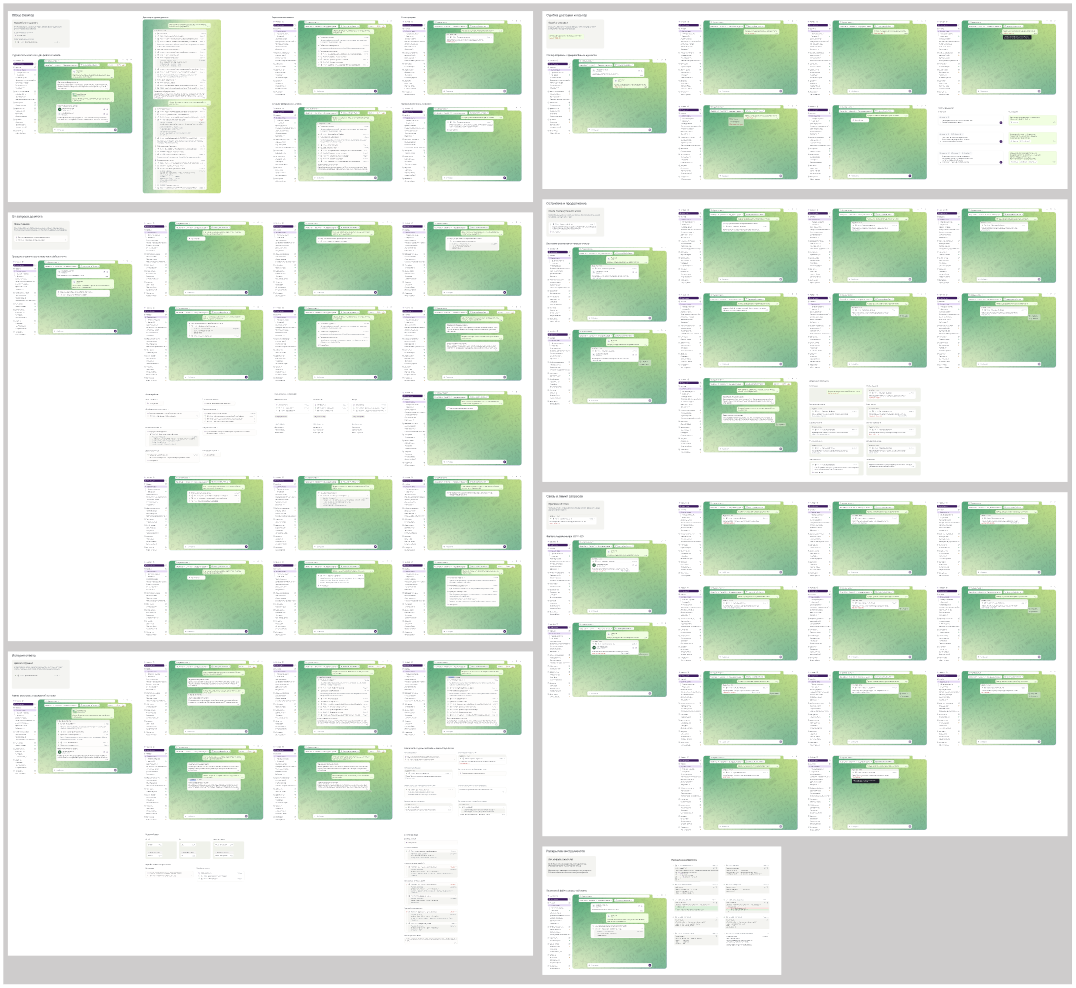
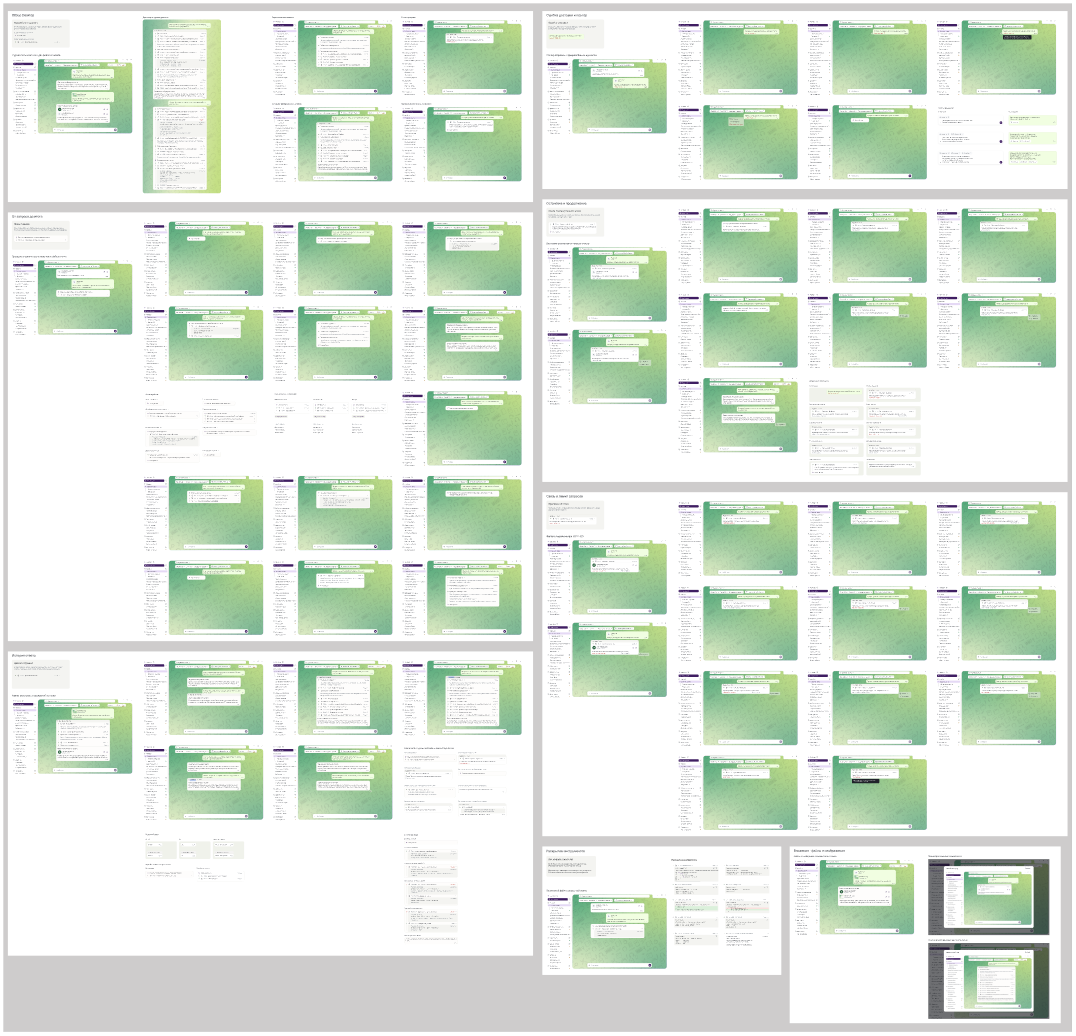
Specify file attachments and image previews for both chat roles

diff --git a/specs/desktop-aurora-attachments.md b/specs/desktop-aurora-attachments.md
@@ -1,0 +1,28 @@
+# Desktop Aurora · файлы и изображения в сообщениях
+
+Пользователь отправляет журнал и снимок экрана. Агент возвращает патч и изображение с результатом проверки. Каждый файл находится в облачке своего автора рядом с текстом сообщения. У документа видны значок, имя с расширением и метаданные. У изображения на месте значка показана миниатюра самого файла. [Диалог в Figma](https://www.figma.com/design/ivLmgulIBIkMzOw8sgvKxj/Aurora-DS?node-id=502-142949)
+
+![В запросе видны session.log и миниатюра cancellation.png. В ответе — cancel-request.patch и миниатюра stream-check.png.](../previews/desktop-agent-turns/message-files-and-images.png)
+
+## Строка вложения
+
+В черновике каждый файл можно убрать отдельно. После отправки вложения остаются над подписью в исходном порядке. У нескольких файлов общий список внутри облачка. Между строками 4 dp, между списком и подписью 8 dp. Длинное имя переносится, полное имя и расширение доступны при чтении строки.
+
+Слева от имени зарезервирована область 48 × 48 dp. При наличии превью изображение заполняет эту область с сохранением пропорций и скруглением 4 dp. Для документа используется значок типа файла. Справа от файла агента доступны действия просмотра и скачивания. У патча в метаданных можно показать число изменённых файлов и размер diff. Просмотр патча открывает изменения для чтения. [Геометрия и состояния вложений](../plans/aurora-attachments.md)
+
+## Просмотр изображения
+
+Нажатие на строку изображения открывает выбранное вложение поверх диалога. У изображения агента тот же просмотр доступен через кнопку открытия. В заголовке видно имя файла. Изображение целиком вписывается в окно с сохранением пропорций. «Закрыть» и щелчок по затемнённому фону возвращают к исходному сообщению.
+
+| Изображение пользователя | Изображение агента |
+| --- | --- |
+| ![Открыт файл cancellation.png с экраном остановленного ответа.](../previews/desktop-agent-turns/user-image-preview.png) | ![Открыт файл stream-check.png с результатом проверки истории.](../previews/desktop-agent-turns/agent-image-preview.png) |
+| [Посмотреть кадр](https://www.figma.com/design/ivLmgulIBIkMzOw8sgvKxj/Aurora-DS?node-id=502-144061) | [Посмотреть кадр](https://www.figma.com/design/ivLmgulIBIkMzOw8sgvKxj/Aurora-DS?node-id=502-145023) |
+
+## Состояние файла и сообщения
+
+- Во время загрузки строка сохраняет имя файла и показывает фактический прогресс. При неизвестном объёме достаточно индикатора загрузки. Ошибка получения относится к конкретному вложению, повтор доступен рядом с ним.
+- При ошибке доставки сообщения повторная отправка использует прежний набор вложений. При остановке потока или HTTP 429 файлы, уже полученные от агента, остаются в его ответе. Продолжение сохраняет их по ID.
+- Открытие меню сообщения сохраняет состав и расположение файлов. Бейдж управляет репликой целиком, кнопки в строке артефакта — выбранным файлом. [Меню сообщения](desktop-aurora-message-actions.md) · [Семь сценариев с вложениями](desktop-aurora-agent-workspace.md#файлы-пользователя-и-агента)
+
+Для приёмки открыть по очереди обе миниатюры в одном диалоге. Сверить имя и содержимое с выбранной строкой, закрыть просмотр и проверить положение переписки. Отдельно проверить документ, патч и скачивание оригинального файла в приложении.

diff --git a/specs/desktop-aurora-agent-workspace.md b/specs/desktop-aurora-agent-workspace.md
@@ -12,6 +12,8 @@
 
 ## Файлы пользователя и агента
 
+Для документов и изображений обеих ролей есть [отдельная спецификация с миниатюрами и открытым просмотром](desktop-aurora-attachments.md).
+
 Пользователь прикрепляет файлы к черновику. После отправки они видны в его реплике над подписью. Строка показывает имя и тип файла, для изображения с доступным превью используется миниатюра. При ошибке доставки повтор сохраняет тот же набор вложений.
 
 Файл, переданный агентом, появляется внутри его ответа. У патча видны имя и сводка изменений, у документа — имя и формат. Справа расположены действия просмотра и скачивания. Просмотр патча открывает изменения для чтения. Путь, который инструмент прочитал или нашёл, остаётся в результатах инструмента. Файл становится вложением при получении события с самим артефактом.

diff --git a/CHECKPOINT.md b/CHECKPOINT.md
@@ -4,6 +4,8 @@
 
 ## С чего продолжить
 
+В секции [«Вложения · файлы и изображения»](https://www.figma.com/design/ivLmgulIBIkMzOw8sgvKxj/Aurora-DS?node-id=502-142947) у пользователя и агента показаны документ и изображение. Обе миниатюры открывают свой просмотр. [Спецификация и снимки](specs/desktop-aurora-attachments.md).
+
 В каждой из семи секций под пояснением слева есть полноразмерный Desktop-кадр с вложениями обеих сторон. [Журнал пользователя и два файла агента](https://www.figma.com/design/ivLmgulIBIkMzOw8sgvKxj/Aurora-DS?node-id=502-132409) · [Все семь вариантов и снимки](specs/desktop-aurora-agent-workspace.md#файлы-пользователя-и-агента).
 
 Отдельная секция [«Раскрытие инструментов»](https://www.figma.com/design/ivLmgulIBIkMzOw8sgvKxj/Aurora-DS?node-id=502-132403) расположена справа внизу под сценариями связи. [Расположение секций](previews/desktop-agent-turns/workspace-sections.png).
